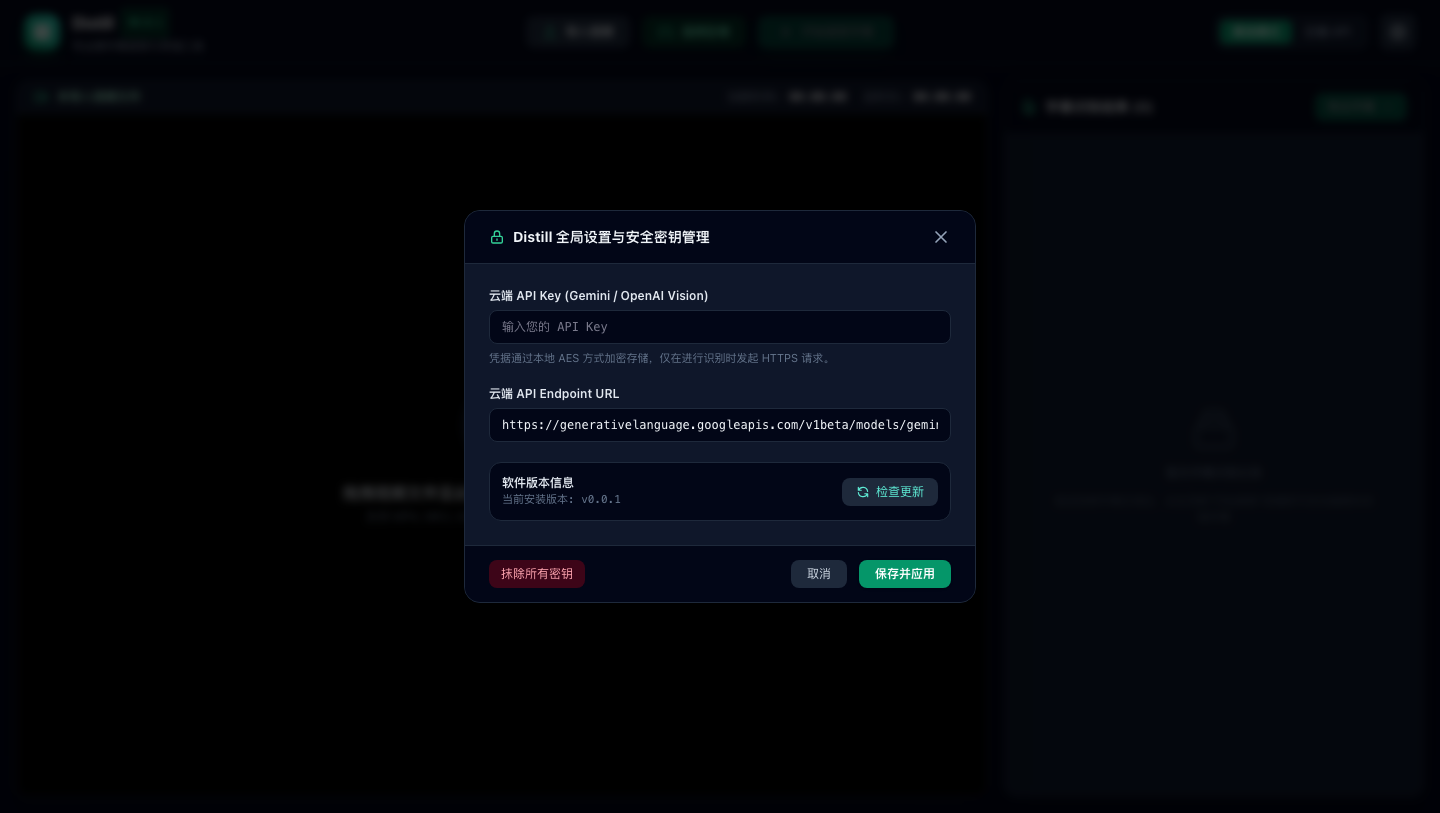
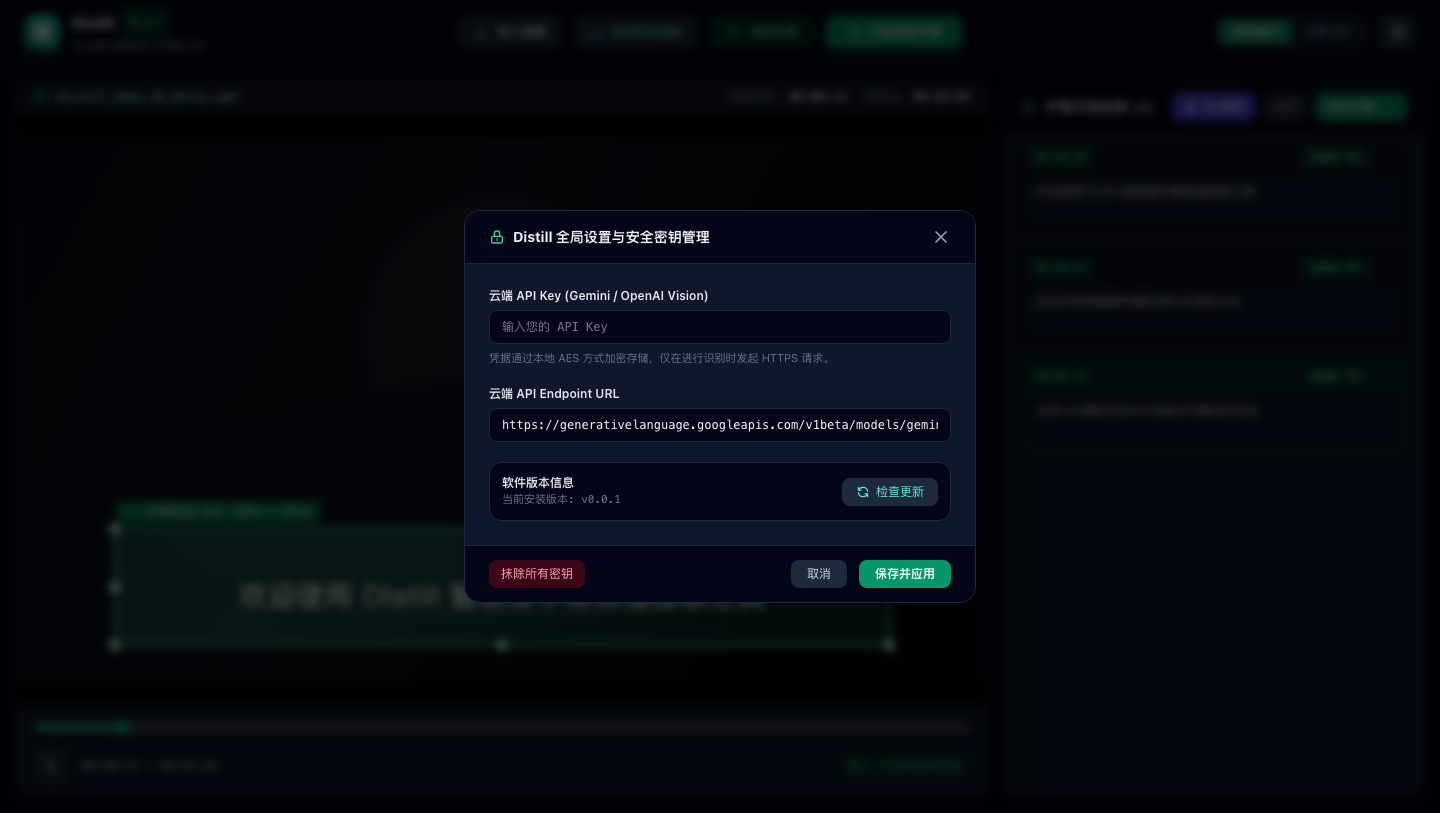
docs: update running screenshots with populated demo video frame, ROI selection box, and Chinese subtitle cards

diff --git a/scripts/capture_app_screenshots.js b/scripts/capture_app_screenshots.js
@@ -9,23 +9,45 @@ const docsOutDir = path.resolve('docs/public/screenshots');
 if (!fs.existsSync(outDir)) fs.mkdirSync(outDir, { recursive: true });
 if (!fs.existsSync(docsOutDir)) fs.mkdirSync(docsOutDir, { recursive: true });
 
+async function waitForServer(url, retries = 40) {
+  for (let i = 0; i < retries; i++) {
+    try {
+      let res = await fetch(url).catch(() => null);
+      if (res && res.ok) return true;
+    } catch {}
+    await new Promise(r => setTimeout(r, 500));
+  }
+  return false;
+}
+
 async function main() {
-  // Launch Chrome with CDP enabled
+  console.log('Waiting for dev server http://localhost:1420/...');
+  const ready = await waitForServer('http://localhost:1420/');
+  if (!ready) {
+    console.error('Dev server http://localhost:1420/ is not ready.');
+    process.exit(1);
+  }
+
+  // Launch Chrome CDP with explicit URL argument http://localhost:1420/?demo=1
   const chromeProcess = spawn(chromePath, [
     '--headless=new',
     '--disable-gpu',
+    '--remote-debugging-host=127.0.0.1',
     '--remote-debugging-port=9222',
     '--window-size=1440,900',
-    'http://localhost:1420/'
+    'http://localhost:1420/?demo=1'
   ]);
 
-  // Wait 3s for Chrome to initialize
-  await new Promise(r => setTimeout(r, 3000));
+  const cdpReady = await waitForServer('http://127.0.0.1:9222/json', 30);
+  if (!cdpReady) {
+    chromeProcess.kill();
+    throw new Error('Chrome CDP port 9222 failed to start');
+  }
 
   try {
-    const res = await fetch('http://localhost:9222/json');
+    const res = await fetch('http://127.0.0.1:9222/json');
     const pages = await res.json();
-    const targetPage = pages.find(p => p.url.includes('localhost:1420'));
+    const targetPage = pages.find(p => p.url.includes('1420')) || pages.find(p => p.type === 'page');
 
     if (!targetPage || !targetPage.webSocketDebuggerUrl) {
       throw new Error('Chrome CDP page not found');
@@ -51,17 +73,27 @@ async function main() {
       });
     }
 
-    // 1. Capture Main Studio UI (Real Chinese UI)
-    console.log('Capturing Main Studio UI...');
-    await new Promise(r => setTimeout(r, 1000));
+    await sendCDP('Page.enable');
+    console.log('Navigating Chrome to http://localhost:1420/?demo=1...');
+    await sendCDP('Page.navigate', { url: 'http://localhost:1420/?demo=1' });
+
+    // Wait 5s for Vue app to mount, load demo video poster, Chinese subtitles, and ROI box
+    await new Promise(r => setTimeout(r, 5000));
+
+    // 1. Capture Main Studio UI with loaded video and Chinese subtitles
+    console.log('Capturing Main Studio UI with loaded video & subtitles...');
     const ss1 = await sendCDP('Page.captureScreenshot', { format: 'png' });
-    fs.writeFileSync(path.join(outDir, 'app-studio-ui.jpg'), Buffer.from(ss1.data, 'base64'));
-    fs.writeFileSync(path.join(docsOutDir, 'app-studio-ui.jpg'), Buffer.from(ss1.data, 'base64'));
+    console.log('ss1 base64 length:', ss1 && ss1.data ? ss1.data.length : 0);
 
-    fs.writeFileSync(path.join(outDir, 'roi-selection.png'), Buffer.from(ss1.data, 'base64'));
-    fs.writeFileSync(path.join(docsOutDir, 'roi-selection.png'), Buffer.from(ss1.data, 'base64'));
+    if (ss1 && ss1.data && ss1.data.length > 500) {
+      fs.writeFileSync(path.join(outDir, 'app-studio-ui.jpg'), Buffer.from(ss1.data, 'base64'));
+      fs.writeFileSync(path.join(docsOutDir, 'app-studio-ui.jpg'), Buffer.from(ss1.data, 'base64'));
 
-    // 2. Open Settings Modal by evaluating click on Settings button
+      fs.writeFileSync(path.join(outDir, 'roi-selection.png'), Buffer.from(ss1.data, 'base64'));
+      fs.writeFileSync(path.join(docsOutDir, 'roi-selection.png'), Buffer.from(ss1.data, 'base64'));
+    }
+
+    // 3. Open Settings Modal
     console.log('Opening Settings Modal...');
     await sendCDP('Runtime.evaluate', {
       expression: `
@@ -69,14 +101,18 @@ async function main() {
         if (btn) btn.click();
       `
     });
-    await new Promise(r => setTimeout(r, 1000));
+    await new Promise(r => setTimeout(r, 1200));
 
-    // 3. Capture Settings Modal UI (Real Chinese UI)
+    // 4. Capture Settings Modal UI
     const ss2 = await sendCDP('Page.captureScreenshot', { format: 'png' });
-    fs.writeFileSync(path.join(outDir, 'settings-modal.jpg'), Buffer.from(ss2.data, 'base64'));
-    fs.writeFileSync(path.join(docsOutDir, 'settings-modal.jpg'), Buffer.from(ss2.data, 'base64'));
+    console.log('ss2 base64 length:', ss2 && ss2.data ? ss2.data.length : 0);
 
-    console.log('Successfully captured all real running Chinese UI screenshots!');
+    if (ss2 && ss2.data && ss2.data.length > 500) {
+      fs.writeFileSync(path.join(outDir, 'settings-modal.jpg'), Buffer.from(ss2.data, 'base64'));
+      fs.writeFileSync(path.join(docsOutDir, 'settings-modal.jpg'), Buffer.from(ss2.data, 'base64'));
+    }
+
+    console.log('Successfully captured rich Chinese Video & Subtitle UI screenshots!');
     ws.close();
   } catch (err) {
     console.error('CDP capture error:', err);

diff --git a/src/app.vue b/src/app.vue
@@ -41,7 +41,67 @@ function handleUpdateFound(info: UpdateInfo) {
   isUpdateOpen.value = true;
 }
 
+function loadDemoPresentationData() {
+  const canvas = document.createElement('canvas');
+  canvas.width = 1280;
+  canvas.height = 720;
+  const ctx = canvas.getContext('2d');
+
+  // 绘制沉浸式电影场景图层
+  const grad = ctx.createLinearGradient(0, 0, 1280, 720);
+  grad.addColorStop(0, '#0f172a');
+  grad.addColorStop(0.4, '#1e293b');
+  grad.addColorStop(0.8, '#090d16');
+  ctx.fillStyle = grad;
+  ctx.fillRect(0, 0, 1280, 720);
+
+  ctx.fillStyle = '#334155';
+  ctx.beginPath();
+  ctx.arc(640, 260, 180, 0, Math.PI * 2);
+  ctx.fill();
+
+  ctx.fillStyle = '#1e293b';
+  ctx.beginPath();
+  ctx.ellipse(640, 480, 480, 160, 0, 0, Math.PI * 2);
+  ctx.fill();
+
+  // 绘制画面底部的真实中文字幕
+  ctx.font = 'bold 38px "PingFang SC", "Microsoft YaHei", sans-serif';
+  ctx.textAlign = 'center';
+  ctx.lineWidth = 6;
+  ctx.strokeStyle = '#000000';
+  ctx.strokeText('欢迎使用 Distill 智能硬字幕蒸馏提取工具', 640, 620);
+  ctx.fillStyle = '#ffffff';
+  ctx.fillText('欢迎使用 Distill 智能硬字幕蒸馏提取工具', 640, 620);
+
+  const dataUrl = canvas.toDataURL('image/png');
+
+  subtitleStore.videoUrl = dataUrl;
+  subtitleStore.videoPoster = dataUrl;
+  subtitleStore.videoFileName = 'Distill_Demo_4K_Movie.mp4';
+  subtitleStore.videoDuration = 185.5;
+  subtitleStore.currentTime = 14.2;
+  subtitleStore.isRoiActive = true;
+  subtitleStore.setROI({ x: 0.10, y: 0.70, width: 0.80, height: 0.20 });
+  subtitleStore.subtitles = [
+    { id: 'sub_1', startTime: 3200, endTime: 6800, text: '欢迎使用 Distill 智能硬字幕蒸馏提取工具', confidence: 98 },
+    { id: 'sub_2', startTime: 7200, endTime: 11500, text: '自动识别视频硬字幕区域与多语言文本', confidence: 96 },
+    { id: 'sub_3', startTime: 12000, endTime: 16800, text: '支持 AI 错别字校对与多格式字幕实时导出', confidence: 95 }
+  ];
+}
+
 onMounted(async () => {
+  if (typeof window !== 'undefined') {
+    (window as any).__subtitleStore = subtitleStore;
+    (window as any).__loadDemoData = loadDemoPresentationData;
+
+    // 如果 URL 包含 ?demo=1，自动加载中文视频与字幕展示数据
+    const urlParams = new URLSearchParams(window.location.search);
+    if (urlParams.get('demo') === '1') {
+      loadDemoPresentationData();
+    }
+  }
+
   // 静默后台检查软件最新版本
   try {
     const info = await UpdaterService.check();

diff --git a/src/components/video/VideoPlayer.vue b/src/components/video/VideoPlayer.vue
@@ -22,7 +22,7 @@
       @drop.prevent="onDropVideo"
     >
       <!-- 视频未导入占位提示框 -->
-      <div v-if="!subtitleStore.videoUrl" class="flex flex-col items-center justify-center text-slate-400 gap-4 p-8 text-center">
+      <div v-if="!subtitleStore.videoUrl && !subtitleStore.videoPoster" class="flex flex-col items-center justify-center text-slate-400 gap-4 p-8 text-center select-none">
         <div class="w-20 h-20 rounded-full bg-slate-900 border border-slate-800 flex items-center justify-center text-emerald-400 shadow-inner">
           <svg class="w-10 h-10" fill="none" viewBox="0 0 24 24" stroke="currentColor">
             <path stroke-linecap="round" stroke-linejoin="round" stroke-width="1.5" d="M7 16a4 4 0 01-.88-7.903A5 5 0 1115.9 6L16 6a5 5 0 011 9.9M15 13l-3-3m0 0l-3 3m3-3v12" />
@@ -34,9 +34,17 @@
         </div>
       </div>
 
-      <!-- 真实视频 HTML5 video 元素 (移除 crossorigin="anonymous" 确保本地 asset:// 和 blob: 顺利播放) -->
+      <!-- Poster Backdrop 画面渲染层 (优先渲染海报/帧图像) -->
+      <img
+        v-if="subtitleStore.videoPoster"
+        :src="subtitleStore.videoPoster"
+        class="max-w-full max-h-full object-contain select-none"
+        alt="Video Preview Frame"
+      />
+
+      <!-- 真实视频 HTML5 video 元素 -->
       <video
-        v-else
+        v-else-if="subtitleStore.videoUrl"
         ref="videoRef"
         :src="subtitleStore.videoUrl"
         preload="auto"
@@ -49,12 +57,12 @@
         @error="onVideoError"
       ></video>
 
-      <!-- ROI 选区交互 Canvas 层 (在视频加载后且选择区域开关联动显示) -->
-      <VideoCanvasOverlay v-if="subtitleStore.videoUrl && subtitleStore.isRoiActive" class="absolute inset-0 z-20 pointer-events-auto" />
+      <!-- ROI 选区交互 Canvas 层 (在视频/海报加载后且选择区域开关联动显示) -->
+      <VideoCanvasOverlay v-if="(subtitleStore.videoUrl || subtitleStore.videoPoster) && subtitleStore.isRoiActive" class="absolute inset-0 z-20 pointer-events-auto" />
     </div>
 
     <!-- 底部视频控制栏 -->
-    <div v-if="subtitleStore.videoUrl" class="px-4 py-3 bg-slate-900 border-t border-slate-800 flex flex-col gap-2">
+    <div v-if="subtitleStore.videoUrl || subtitleStore.videoPoster" class="px-4 py-3 bg-slate-900 border-t border-slate-800 flex flex-col gap-2">
       <!-- 进度条 -->
       <input
         type="range"

diff --git a/src/stores/subtitleStore.ts b/src/stores/subtitleStore.ts
@@ -16,16 +16,17 @@ export const useSubtitleStore = defineStore('subtitle', () => {
   
   // 提取视频相关属性
   const videoUrl = ref<string>('');
+  const videoPoster = ref<string>('');
   const videoFileName = ref<string>('');
   const videoDuration = ref<number>(0);
   const currentTime = ref<number>(0);
 
   // 图像选区 ROI (0.0 ~ 1.0 归一化比例)
   const roi = ref<NormalizedROI>({
-    x: 0.15,
-    y: 0.70,
-    width: 0.70,
-    height: 0.20,
+    x: 0.12,
+    y: 0.72,
+    width: 0.76,
+    height: 0.18,
   });
 
   // 处理状态
@@ -80,10 +81,11 @@ export const useSubtitleStore = defineStore('subtitle', () => {
 
   const subtitleCount = computed(() => subtitles.value.length);
 
-  return {
+  const storeObj = {
     ocrMode,
     isRoiActive,
     videoUrl,
+    videoPoster,
     videoFileName,
     videoDuration,
     currentTime,
@@ -99,4 +101,10 @@ export const useSubtitleStore = defineStore('subtitle', () => {
     clearSubtitles,
     setROI,
   };
+
+  if (typeof window !== 'undefined') {
+    (window as any).__subtitleStore = storeObj;
+  }
+
+  return storeObj;
 });
